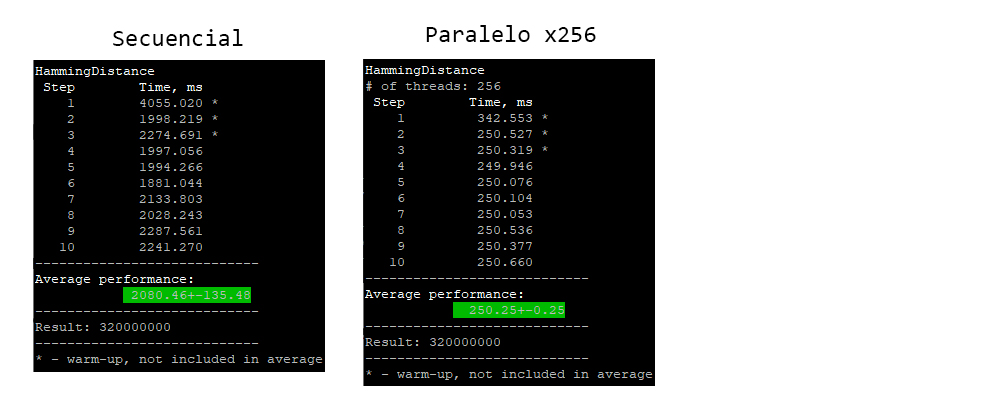
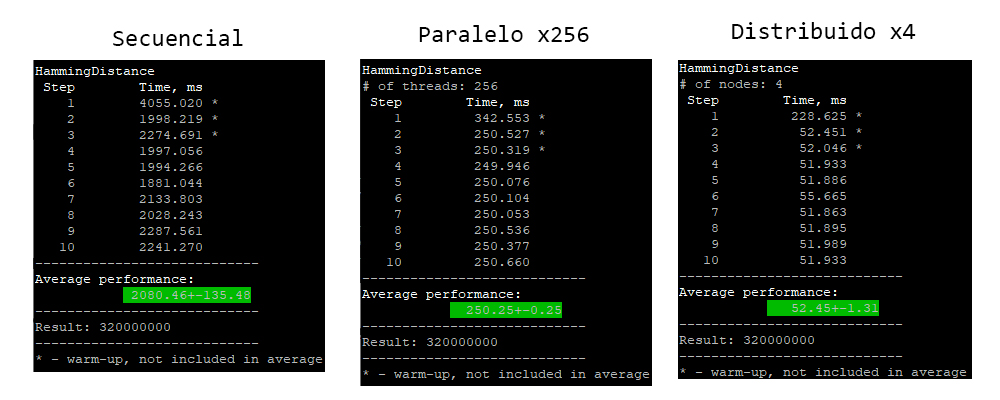
Uptade README

Changed region(s): [[0.341, 0.15, 0.992, 0.96], [0.403, 0.06, 0.589, 0.12], [0.713, 0.06, 0.93, 0.12]]

diff --git a/README.md b/README.md
@@ -15,6 +15,8 @@ make queue
 cat app.o____
 ```
 ##  Análisis de resultados 
+Resultados de las 3 implementaciones con configuración por defecto en ms(milisegundos). En cada caso se ejecutó 10 veces y se obtuvo el tiempo promedio ejecución.
+![defecto](img/sequential.jpg)
 Resultados de las 3 implementaciones con configuración por defecto en ms(milisegundos)
 ![defecto](img/performance.jpg)
 
@@ -25,7 +27,7 @@ En este caso tenemos 3 imágenes, la primera muestra el tiempo de ejecución con
 ![defecto](img/parallel_03.jpg)
 
 ### Versión distribuida
-En esta imagen se observan los resultados de la versión paralela, la cual se ejecutó con diferente número de hilos (32, 64, 128, 256). En cada caso se ejecutó 10 veces y se obtuvo el tiempo promedio ejecución.
+En esta imagen se observan los resultados de la versión distribuida, la cual se ejecutó con diferente número de nodos (2, 3, 4). En cada caso se ejecutó 10 veces y se obtuvo el tiempo promedio ejecución.
 ![defecto](img/distributed_02.jpg)
 En este caso tenemos 3 imágenes, la primera muestra el tiempo de ejecución con las diferentes configuraciones. En la segunda tenemos el speed up de cada configuración respecto a la versión serial. En la tercera tenemos la eficiencia para cada configuración.
 ![defecto](img/distributed_03.jpg)
